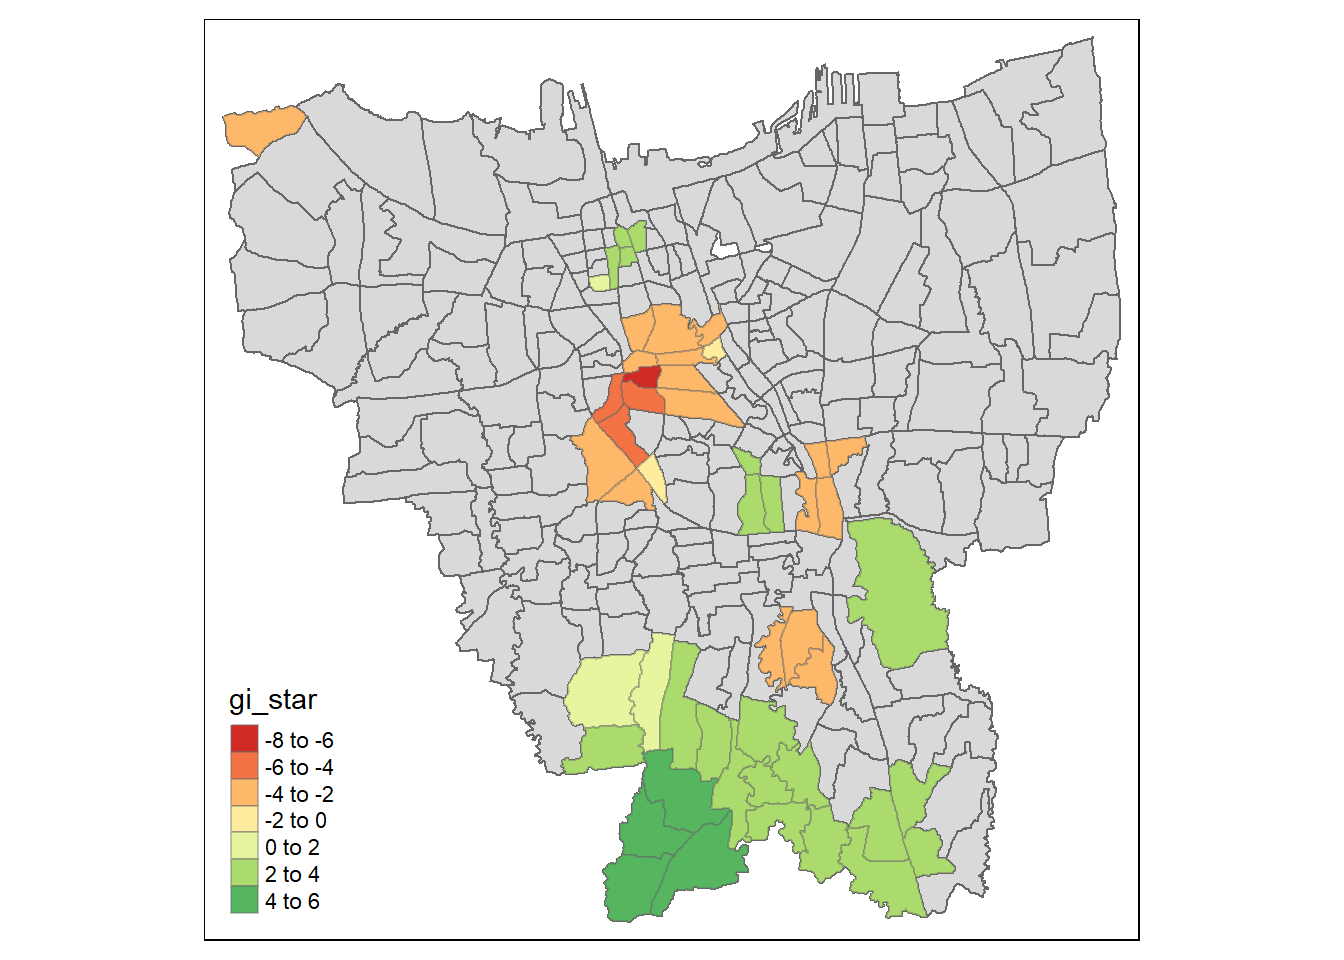
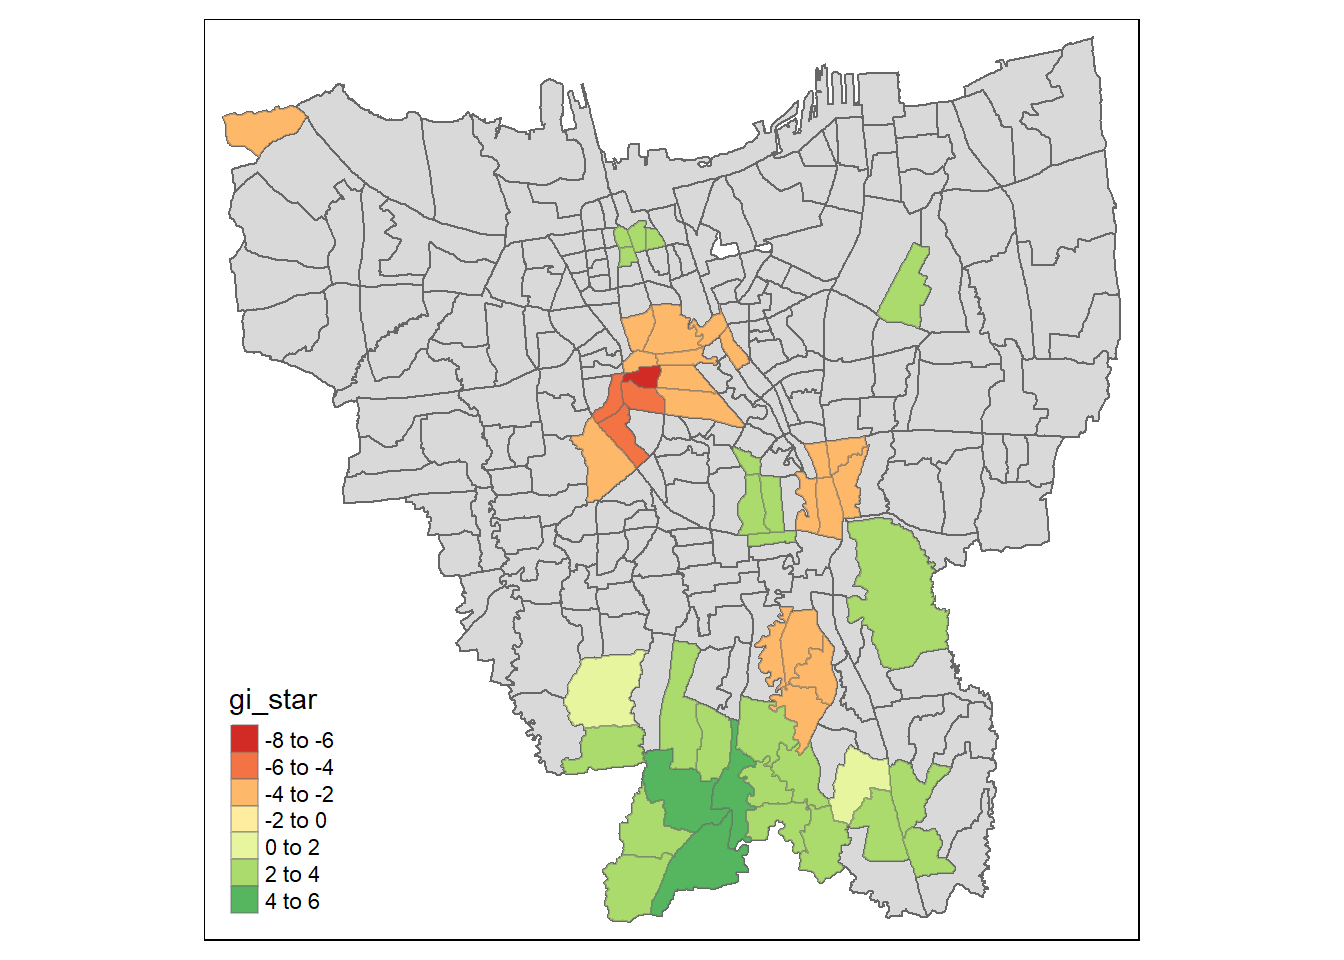
Cleaned up THx2

diff --git a/_site/Takehome_exercise/TakeHome2/Takehome_ex2.html b/_site/Takehome_exercise/TakeHome2/Takehome_ex2.html
@@ -6,7 +6,7 @@
 
 <meta name="viewport" content="width=device-width, initial-scale=1.0, user-scalable=yes">
 
-<meta name="dcterms.date" content="2023-02-28">
+<meta name="dcterms.date" content="2023-03-01">
 
 <title>IS415-GAA - Take home assignment 2</title>
 <style>
@@ -276,17 +276,19 @@ code span.wa { color: #60a0b0; font-weight: bold; font-style: italic; } /* Warni
   <ul class="collapse">
   <li><a href="#joining-data-by-sub-district" id="toc-joining-data-by-sub-district" class="nav-link" data-scroll-target="#joining-data-by-sub-district">Joining data by sub district</a></li>
   </ul></li>
-  <li><a href="#visualization" id="toc-visualization" class="nav-link" data-scroll-target="#visualization">Visualization</a>
+  <li><a href="#vaccination-rates-mapping" id="toc-vaccination-rates-mapping" class="nav-link" data-scroll-target="#vaccination-rates-mapping">Vaccination Rates mapping</a>
   <ul class="collapse">
   <li><a href="#dealing-with-mismatched-sub-district-names" id="toc-dealing-with-mismatched-sub-district-names" class="nav-link" data-scroll-target="#dealing-with-mismatched-sub-district-names">Dealing with mismatched sub-district names</a></li>
   <li><a href="#section" id="toc-section" class="nav-link" data-scroll-target="#section"></a></li>
   </ul></li>
-  <li><a href="#vaccination-rate-calculation" id="toc-vaccination-rate-calculation" class="nav-link" data-scroll-target="#vaccination-rate-calculation">Vaccination Rate calculation</a></li>
+  <li><a href="#vaccination-rate-calculation" id="toc-vaccination-rate-calculation" class="nav-link" data-scroll-target="#vaccination-rate-calculation">Vaccination Rate calculation</a>
+  <ul class="collapse">
   <li><a href="#plotting-monthly-vaccination-rate" id="toc-plotting-monthly-vaccination-rate" class="nav-link" data-scroll-target="#plotting-monthly-vaccination-rate">Plotting monthly vaccination rate</a>
   <ul class="collapse">
   <li><a href="#july-2021-to-31-october-2021" id="toc-july-2021-to-31-october-2021" class="nav-link" data-scroll-target="#july-2021-to-31-october-2021">31 July 2021 to 31 October 2021</a></li>
   <li><a href="#november-2021-to-27-february-2022" id="toc-november-2021-to-27-february-2022" class="nav-link" data-scroll-target="#november-2021-to-27-february-2022">30 November 2021 to 27 February 2022</a></li>
   <li><a href="#march-2022-to-30-june-2022" id="toc-march-2022-to-30-june-2022" class="nav-link" data-scroll-target="#march-2022-to-30-june-2022">31 March 2022 to 30 June 2022</a></li>
+  </ul></li>
   <li><a href="#observation" id="toc-observation" class="nav-link" data-scroll-target="#observation">Observation</a></li>
   </ul></li>
   <li><a href="#local-gi-analysis" id="toc-local-gi-analysis" class="nav-link" data-scroll-target="#local-gi-analysis">Local Gi* analysis</a>
@@ -303,11 +305,12 @@ code span.wa { color: #60a0b0; font-weight: bold; font-style: italic; } /* Warni
   <li><a href="#observation-1" id="toc-observation-1" class="nav-link" data-scroll-target="#observation-1">Observation</a></li>
   <li><a href="#mann-kendall-test" id="toc-mann-kendall-test" class="nav-link" data-scroll-target="#mann-kendall-test">Mann-Kendall test</a></li>
   <li><a href="#arrange-to-show-significant-emerging-hot-cold-spots" id="toc-arrange-to-show-significant-emerging-hot-cold-spots" class="nav-link" data-scroll-target="#arrange-to-show-significant-emerging-hot-cold-spots">Arrange to show significant emerging hot/ cold spots</a></li>
-  <li><a href="#performing-emerging-hotspot-analysis" id="toc-performing-emerging-hotspot-analysis" class="nav-link" data-scroll-target="#performing-emerging-hotspot-analysis">Performing emerging hotspot analysis</a>
+  <li><a href="#performing-emerging-hotspot-analysis" id="toc-performing-emerging-hotspot-analysis" class="nav-link" data-scroll-target="#performing-emerging-hotspot-analysis">Performing emerging hotspot analysis</a></li>
+  </ul></li>
+  <li><a href="#ehsa-emerging-hot-spot-analysis" id="toc-ehsa-emerging-hot-spot-analysis" class="nav-link" data-scroll-target="#ehsa-emerging-hot-spot-analysis">EHSA (Emerging Hot Spot Analysis)</a>
   <ul class="collapse">
   <li><a href="#visualizing-distribution-of-ehsa-classes" id="toc-visualizing-distribution-of-ehsa-classes" class="nav-link" data-scroll-target="#visualizing-distribution-of-ehsa-classes">Visualizing distribution of EHSA classes</a></li>
   <li><a href="#visualizing-ehsa" id="toc-visualizing-ehsa" class="nav-link" data-scroll-target="#visualizing-ehsa">Visualizing EHSA</a></li>
-  </ul></li>
   <li><a href="#observation-2" id="toc-observation-2" class="nav-link" data-scroll-target="#observation-2">Observation</a></li>
   </ul></li>
   </ul>
@@ -329,7 +332,7 @@ code span.wa { color: #60a0b0; font-weight: bold; font-style: italic; } /* Warni
     <div>
     <div class="quarto-title-meta-heading">Published</div>
     <div class="quarto-title-meta-contents">
-      <p class="date">February 28, 2023</p>
+      <p class="date">March 1, 2023</p>
     </div>
   </div>
   
@@ -488,13 +491,10 @@ Projected CRS: DGN95 / Indonesia TM-3 zone 54.1
 <span id="cb12-21"><a href="#cb12-21" aria-hidden="true" tabindex="-1"></a>}</span></code><button title="Copy to Clipboard" class="code-copy-button"><i class="bi"></i></button></pre></div>
 </div>
 <div class="cell">
-<div class="sourceCode cell-code" id="cb13"><pre class="sourceCode r code-with-copy"><code class="sourceCode r"><span id="cb13-1"><a href="#cb13-1" aria-hidden="true" tabindex="-1"></a><span class="co"># in the folder 'data/aspatial', find files with the extension '.xlsx' and add it to our fileslist </span></span>
-<span id="cb13-2"><a href="#cb13-2" aria-hidden="true" tabindex="-1"></a><span class="co"># the full.names=TRUE prepends the directory path to the file names, giving a relative file path - otherwise, only the file names (not the paths) would be returned </span></span>
-<span id="cb13-3"><a href="#cb13-3" aria-hidden="true" tabindex="-1"></a><span class="co"># reference: https://stat.ethz.ch/R-manual/R-devel/library/base/html/list.files.html</span></span>
-<span id="cb13-4"><a href="#cb13-4" aria-hidden="true" tabindex="-1"></a>fileslist <span class="ot">&lt;-</span><span class="fu">list.files</span>(<span class="at">path =</span> <span class="st">"data/aspatial"</span>, <span class="at">pattern =</span> <span class="st">"*.xlsx"</span>, <span class="at">full.names=</span><span class="cn">TRUE</span>)</span>
-<span id="cb13-5"><a href="#cb13-5" aria-hidden="true" tabindex="-1"></a></span>
-<span id="cb13-6"><a href="#cb13-6" aria-hidden="true" tabindex="-1"></a><span class="co"># afterwards, for every element in fileslist, apply aspatial_process function</span></span>
-<span id="cb13-7"><a href="#cb13-7" aria-hidden="true" tabindex="-1"></a>dflist <span class="ot">&lt;-</span> <span class="fu">lapply</span>(<span class="fu">seq_along</span>(fileslist), <span class="cf">function</span>(x) <span class="fu">aspatial_preprocess</span>(fileslist[x]))</span></code><button title="Copy to Clipboard" class="code-copy-button"><i class="bi"></i></button></pre></div>
+<div class="sourceCode cell-code" id="cb13"><pre class="sourceCode r code-with-copy"><code class="sourceCode r"><span id="cb13-1"><a href="#cb13-1" aria-hidden="true" tabindex="-1"></a>fileslist <span class="ot">&lt;-</span><span class="fu">list.files</span>(<span class="at">path =</span> <span class="st">"data/aspatial"</span>, <span class="at">pattern =</span> <span class="st">"*.xlsx"</span>, <span class="at">full.names=</span><span class="cn">TRUE</span>)</span>
+<span id="cb13-2"><a href="#cb13-2" aria-hidden="true" tabindex="-1"></a></span>
+<span id="cb13-3"><a href="#cb13-3" aria-hidden="true" tabindex="-1"></a></span>
+<span id="cb13-4"><a href="#cb13-4" aria-hidden="true" tabindex="-1"></a>dflist <span class="ot">&lt;-</span> <span class="fu">lapply</span>(<span class="fu">seq_along</span>(fileslist), <span class="cf">function</span>(x) <span class="fu">aspatial_preprocess</span>(fileslist[x]))</span></code><button title="Copy to Clipboard" class="code-copy-button"><i class="bi"></i></button></pre></div>
 </div>
 <div class="cell">
 <div class="sourceCode cell-code" id="cb14"><pre class="sourceCode r code-with-copy"><code class="sourceCode r"><span id="cb14-1"><a href="#cb14-1" aria-hidden="true" tabindex="-1"></a>vac_jkt <span class="ot">&lt;-</span> <span class="fu">ldply</span>(dflist, data.frame)</span></code><button title="Copy to Clipboard" class="code-copy-button"><i class="bi"></i></button></pre></div>
@@ -616,8 +616,8 @@ $ TOTAL.VAKSIN..DIBERIKAN &lt;dbl&gt; 36042, 44800, 42925, 15348, 42415, 33278, 
 </div>
 </section>
 </section>
-<section id="visualization" class="level1">
-<h1>Visualization</h1>
+<section id="vaccination-rates-mapping" class="level1">
+<h1>Vaccination Rates mapping</h1>
 <div class="cell">
 <div class="sourceCode cell-code" id="cb26"><pre class="sourceCode r code-with-copy"><code class="sourceCode r"><span id="cb26-1"><a href="#cb26-1" aria-hidden="true" tabindex="-1"></a>vac <span class="ot">=</span> <span class="fu">tm_shape</span>(jkt)<span class="sc">+</span></span>
 <span id="cb26-2"><a href="#cb26-2" aria-hidden="true" tabindex="-1"></a>  <span class="fu">tm_fill</span>(<span class="st">"Vaccinated"</span>) <span class="sc">+</span></span>
@@ -780,9 +780,8 @@ $ TOTAL.VAKSIN..DIBERIKAN &lt;dbl&gt; 36042, 44800, 42925, 15348, 42415, 33278, 
 <span id="cb36-3"><a href="#cb36-3" aria-hidden="true" tabindex="-1"></a>VR <span class="ot">&lt;-</span> VR<span class="sc">%&gt;%</span> <span class="fu">left_join</span>(jkt_sf, <span class="at">by=</span><span class="fu">c</span>(<span class="st">"Sub_District"</span><span class="ot">=</span><span class="st">"Sub_District"</span>))</span>
 <span id="cb36-4"><a href="#cb36-4" aria-hidden="true" tabindex="-1"></a>VR <span class="ot">&lt;-</span> <span class="fu">st_as_sf</span>(VR)</span></code><button title="Copy to Clipboard" class="code-copy-button"><i class="bi"></i></button></pre></div>
 </div>
-</section>
-<section id="plotting-monthly-vaccination-rate" class="level1">
-<h1>Plotting monthly vaccination rate</h1>
+<section id="plotting-monthly-vaccination-rate" class="level2">
+<h2 class="anchored" data-anchor-id="plotting-monthly-vaccination-rate">Plotting monthly vaccination rate</h2>
 <p>First we will plot the rate map for 31st of July 2021</p>
 <div class="cell">
 <div class="sourceCode cell-code" id="cb37"><pre class="sourceCode r code-with-copy"><code class="sourceCode r"><span id="cb37-1"><a href="#cb37-1" aria-hidden="true" tabindex="-1"></a><span class="fu">tmap_mode</span>(<span class="st">"plot"</span>)</span>
@@ -859,6 +858,7 @@ $ TOTAL.VAKSIN..DIBERIKAN &lt;dbl&gt; 36042, 44800, 42925, 15348, 42415, 33278, 
 <p><img src="Takehome_ex2_files/figure-html/unnamed-chunk-32-1.png" class="img-fluid" width="672"></p>
 </div>
 </div>
+</section>
 </section>
 <section id="observation" class="level2">
 <h2 class="anchored" data-anchor-id="observation">Observation</h2>
@@ -992,7 +992,7 @@ $ TOTAL.VAKSIN..DIBERIKAN &lt;dbl&gt; 36042, 44800, 42925, 15348, 42415, 33278, 
 <div class="cell">
 <div class="sourceCode cell-code" id="cb57"><pre class="sourceCode r code-with-copy"><code class="sourceCode r"><span id="cb57-1"><a href="#cb57-1" aria-hidden="true" tabindex="-1"></a>mkt <span class="ot">&lt;-</span> gi_stars <span class="sc">%&gt;%</span> </span>
 <span id="cb57-2"><a href="#cb57-2" aria-hidden="true" tabindex="-1"></a>  <span class="fu">ungroup</span>() <span class="sc">%&gt;%</span> </span>
-<span id="cb57-3"><a href="#cb57-3" aria-hidden="true" tabindex="-1"></a>  <span class="fu">filter</span>(Sub_District <span class="sc">==</span> <span class="st">"ANCOL"</span>) <span class="sc">|&gt;</span> </span>
+<span id="cb57-3"><a href="#cb57-3" aria-hidden="true" tabindex="-1"></a>  <span class="fu">filter</span>(Sub_District <span class="sc">==</span> <span class="st">"GLODOK"</span>) <span class="sc">|&gt;</span> </span>
 <span id="cb57-4"><a href="#cb57-4" aria-hidden="true" tabindex="-1"></a>  <span class="fu">select</span>(Sub_District, Date, gi_star)</span></code><button title="Copy to Clipboard" class="code-copy-button"><i class="bi"></i></button></pre></div>
 </div>
 <p>Plotting the result using ggplot</p>
@@ -1016,8 +1016,8 @@ $ TOTAL.VAKSIN..DIBERIKAN &lt;dbl&gt; 36042, 44800, 42925, 15348, 42415, 33278, 
 <span id="cb59-6"><a href="#cb59-6" aria-hidden="true" tabindex="-1"></a></span>
 <span id="cb59-7"><a href="#cb59-7" aria-hidden="true" tabindex="-1"></a><span class="fu">ggplotly</span>(p)</span></code><button title="Copy to Clipboard" class="code-copy-button"><i class="bi"></i></button></pre></div>
 <div class="cell-output-display">
-<div class="plotly html-widget html-fill-item-overflow-hidden html-fill-item" id="htmlwidget-bc212714d425f71495ef" style="width:100%;height:464px;"></div>
-<script type="application/json" data-for="htmlwidget-bc212714d425f71495ef">{"x":{"data":[{"x":[18839,18870,18900,18931,18961,18992,19023,19050,19082,19112,19143,19173],"y":[2.07776786463371,1.95879817160444,0.387510888924714,-0.821987235152629,-1.11898252077143,-0.974611838453084,-0.547951745524385,-0.471557221095882,-0.543037534694721,-0.398530978425604,-0.7178688928673,-0.606673447114118],"text":["Date: 2021-07-31<br />gi_star:  2.0777679","Date: 2021-08-31<br />gi_star:  1.9587982","Date: 2021-09-30<br />gi_star:  0.3875109","Date: 2021-10-31<br />gi_star: -0.8219872","Date: 2021-11-30<br />gi_star: -1.1189825","Date: 2021-12-31<br />gi_star: -0.9746118","Date: 2022-01-31<br />gi_star: -0.5479517","Date: 2022-02-27<br />gi_star: -0.4715572","Date: 2022-03-31<br />gi_star: -0.5430375","Date: 2022-04-30<br />gi_star: -0.3985310","Date: 2022-05-31<br />gi_star: -0.7178689","Date: 2022-06-30<br />gi_star: -0.6066734"],"type":"scatter","mode":"lines","line":{"width":1.88976377952756,"color":"rgba(0,0,0,1)","dash":"solid"},"hoveron":"points","showlegend":false,"xaxis":"x","yaxis":"y","hoverinfo":"text","frame":null}],"layout":{"margin":{"t":26.2283105022831,"r":7.30593607305936,"b":40.1826484018265,"l":37.2602739726027},"plot_bgcolor":"rgba(255,255,255,1)","paper_bgcolor":"rgba(255,255,255,1)","font":{"color":"rgba(0,0,0,1)","family":"","size":14.6118721461187},"xaxis":{"domain":[0,1],"automargin":true,"type":"linear","autorange":false,"range":[18822.3,19189.7],"tickmode":"array","ticktext":["Okt 2021","Jan 2022","Apr 2022","Jul 2022"],"tickvals":[18901,18993,19083,19174],"categoryorder":"array","categoryarray":["Okt 2021","Jan 2022","Apr 2022","Jul 2022"],"nticks":null,"ticks":"outside","tickcolor":"rgba(179,179,179,1)","ticklen":3.65296803652968,"tickwidth":0.33208800332088,"showticklabels":true,"tickfont":{"color":"rgba(77,77,77,1)","family":"","size":11.689497716895},"tickangle":-0,"showline":false,"linecolor":null,"linewidth":0,"showgrid":true,"gridcolor":"rgba(222,222,222,1)","gridwidth":0.33208800332088,"zeroline":false,"anchor":"y","title":{"text":"Date","font":{"color":"rgba(0,0,0,1)","family":"","size":14.6118721461187}},"hoverformat":".2f"},"yaxis":{"domain":[0,1],"automargin":true,"type":"linear","autorange":false,"range":[-1.27882004004168,2.23760538390396],"tickmode":"array","ticktext":["-1","0","1","2"],"tickvals":[-1,0,1,2],"categoryorder":"array","categoryarray":["-1","0","1","2"],"nticks":null,"ticks":"outside","tickcolor":"rgba(179,179,179,1)","ticklen":3.65296803652968,"tickwidth":0.33208800332088,"showticklabels":true,"tickfont":{"color":"rgba(77,77,77,1)","family":"","size":11.689497716895},"tickangle":-0,"showline":false,"linecolor":null,"linewidth":0,"showgrid":true,"gridcolor":"rgba(222,222,222,1)","gridwidth":0.33208800332088,"zeroline":false,"anchor":"x","title":{"text":"gi_star","font":{"color":"rgba(0,0,0,1)","family":"","size":14.6118721461187}},"hoverformat":".2f"},"shapes":[{"type":"rect","fillcolor":"transparent","line":{"color":"rgba(179,179,179,1)","width":0.66417600664176,"linetype":"solid"},"yref":"paper","xref":"paper","x0":0,"x1":1,"y0":0,"y1":1}],"showlegend":false,"legend":{"bgcolor":"rgba(255,255,255,1)","bordercolor":"transparent","borderwidth":1.88976377952756,"font":{"color":"rgba(0,0,0,1)","family":"","size":11.689497716895}},"hovermode":"closest","barmode":"relative"},"config":{"doubleClick":"reset","modeBarButtonsToAdd":["hoverclosest","hovercompare"],"showSendToCloud":false},"source":"A","attrs":{"a78403d661c":{"x":{},"y":{},"type":"scatter"}},"cur_data":"a78403d661c","visdat":{"a78403d661c":["function (y) ","x"]},"highlight":{"on":"plotly_click","persistent":false,"dynamic":false,"selectize":false,"opacityDim":0.2,"selected":{"opacity":1},"debounce":0},"shinyEvents":["plotly_hover","plotly_click","plotly_selected","plotly_relayout","plotly_brushed","plotly_brushing","plotly_clickannotation","plotly_doubleclick","plotly_deselect","plotly_afterplot","plotly_sunburstclick"],"base_url":"https://plot.ly"},"evals":[],"jsHooks":[]}</script>
+<div class="plotly html-widget html-fill-item-overflow-hidden html-fill-item" id="htmlwidget-92586e07974859f6662b" style="width:100%;height:464px;"></div>
+<script type="application/json" data-for="htmlwidget-92586e07974859f6662b">{"x":{"data":[{"x":[18839,18870,18900,18931,18961,18992,19023,19050,19082,19112,19143,19173],"y":[3.50111170297446,4.31941524162891,3.65856497786875,3.94694017481021,2.87253965177964,3.23447227700256,2.88878766519807,2.60658983170689,3.00826269457234,3.208462170278,2.78734435437842,3.06626593873415],"text":["Date: 2021-07-31<br />gi_star: 3.501112","Date: 2021-08-31<br />gi_star: 4.319415","Date: 2021-09-30<br />gi_star: 3.658565","Date: 2021-10-31<br />gi_star: 3.946940","Date: 2021-11-30<br />gi_star: 2.872540","Date: 2021-12-31<br />gi_star: 3.234472","Date: 2022-01-31<br />gi_star: 2.888788","Date: 2022-02-27<br />gi_star: 2.606590","Date: 2022-03-31<br />gi_star: 3.008263","Date: 2022-04-30<br />gi_star: 3.208462","Date: 2022-05-31<br />gi_star: 2.787344","Date: 2022-06-30<br />gi_star: 3.066266"],"type":"scatter","mode":"lines","line":{"width":1.88976377952756,"color":"rgba(0,0,0,1)","dash":"solid"},"hoveron":"points","showlegend":false,"xaxis":"x","yaxis":"y","hoverinfo":"text","frame":null}],"layout":{"margin":{"t":26.2283105022831,"r":7.30593607305936,"b":40.1826484018265,"l":43.1050228310502},"plot_bgcolor":"rgba(255,255,255,1)","paper_bgcolor":"rgba(255,255,255,1)","font":{"color":"rgba(0,0,0,1)","family":"","size":14.6118721461187},"xaxis":{"domain":[0,1],"automargin":true,"type":"linear","autorange":false,"range":[18822.3,19189.7],"tickmode":"array","ticktext":["Okt 2021","Jan 2022","Apr 2022","Jul 2022"],"tickvals":[18901,18993,19083,19174],"categoryorder":"array","categoryarray":["Okt 2021","Jan 2022","Apr 2022","Jul 2022"],"nticks":null,"ticks":"outside","tickcolor":"rgba(179,179,179,1)","ticklen":3.65296803652968,"tickwidth":0.33208800332088,"showticklabels":true,"tickfont":{"color":"rgba(77,77,77,1)","family":"","size":11.689497716895},"tickangle":-0,"showline":false,"linecolor":null,"linewidth":0,"showgrid":true,"gridcolor":"rgba(222,222,222,1)","gridwidth":0.33208800332088,"zeroline":false,"anchor":"y","title":{"text":"Date","font":{"color":"rgba(0,0,0,1)","family":"","size":14.6118721461187}},"hoverformat":".2f"},"yaxis":{"domain":[0,1],"automargin":true,"type":"linear","autorange":false,"range":[2.52094856121079,4.40505651212501],"tickmode":"array","ticktext":["3.0","3.5","4.0"],"tickvals":[3,3.5,4],"categoryorder":"array","categoryarray":["3.0","3.5","4.0"],"nticks":null,"ticks":"outside","tickcolor":"rgba(179,179,179,1)","ticklen":3.65296803652968,"tickwidth":0.33208800332088,"showticklabels":true,"tickfont":{"color":"rgba(77,77,77,1)","family":"","size":11.689497716895},"tickangle":-0,"showline":false,"linecolor":null,"linewidth":0,"showgrid":true,"gridcolor":"rgba(222,222,222,1)","gridwidth":0.33208800332088,"zeroline":false,"anchor":"x","title":{"text":"gi_star","font":{"color":"rgba(0,0,0,1)","family":"","size":14.6118721461187}},"hoverformat":".2f"},"shapes":[{"type":"rect","fillcolor":"transparent","line":{"color":"rgba(179,179,179,1)","width":0.66417600664176,"linetype":"solid"},"yref":"paper","xref":"paper","x0":0,"x1":1,"y0":0,"y1":1}],"showlegend":false,"legend":{"bgcolor":"rgba(255,255,255,1)","bordercolor":"transparent","borderwidth":1.88976377952756,"font":{"color":"rgba(0,0,0,1)","family":"","size":11.689497716895}},"hovermode":"closest","barmode":"relative"},"config":{"doubleClick":"reset","modeBarButtonsToAdd":["hoverclosest","hovercompare"],"showSendToCloud":false},"source":"A","attrs":{"2550298e2cb8":{"x":{},"y":{},"type":"scatter"}},"cur_data":"2550298e2cb8","visdat":{"2550298e2cb8":["function (y) ","x"]},"highlight":{"on":"plotly_click","persistent":false,"dynamic":false,"selectize":false,"opacityDim":0.2,"selected":{"opacity":1},"debounce":0},"shinyEvents":["plotly_hover","plotly_click","plotly_selected","plotly_relayout","plotly_brushed","plotly_brushing","plotly_clickannotation","plotly_doubleclick","plotly_deselect","plotly_afterplot","plotly_sunburstclick"],"base_url":"https://plot.ly"},"evals":[],"jsHooks":[]}</script>
 </div>
 </div>
 <div class="cell">
@@ -1028,9 +1028,9 @@ $ TOTAL.VAKSIN..DIBERIKAN &lt;dbl&gt; 36042, 44800, 42925, 15348, 42415, 33278, 
 <span id="cb60-5"><a href="#cb60-5" aria-hidden="true" tabindex="-1"></a>  tidyr<span class="sc">::</span><span class="fu">unnest_wider</span>(mk)</span></code><button title="Copy to Clipboard" class="code-copy-button"><i class="bi"></i></button></pre></div>
 <div class="cell-output cell-output-stdout">
 <pre><code># A tibble: 1 x 5
-     tau    sl     S     D  varS
-   &lt;dbl&gt; &lt;dbl&gt; &lt;dbl&gt; &lt;dbl&gt; &lt;dbl&gt;
-1 -0.242 0.304   -16  66.0  213.</code></pre>
+     tau     sl     S     D  varS
+   &lt;dbl&gt;  &lt;dbl&gt; &lt;dbl&gt; &lt;dbl&gt; &lt;dbl&gt;
+1 -0.424 0.0641   -28  66.0  213.</code></pre>
 </div>
 </div>
 <p>in the above table, sl is the p value. There is a major downward trend which stabilizes after a point</p>
@@ -1061,6 +1061,10 @@ $ TOTAL.VAKSIN..DIBERIKAN &lt;dbl&gt; 36042, 44800, 42925, 15348, 42415, 33278, 
 <span id="cb64-5"><a href="#cb64-5" aria-hidden="true" tabindex="-1"></a>  <span class="at">nsim =</span> <span class="dv">99</span></span>
 <span id="cb64-6"><a href="#cb64-6" aria-hidden="true" tabindex="-1"></a>)</span></code><button title="Copy to Clipboard" class="code-copy-button"><i class="bi"></i></button></pre></div>
 </div>
+</section>
+</section>
+<section id="ehsa-emerging-hot-spot-analysis" class="level1">
+<h1>EHSA (Emerging Hot Spot Analysis)</h1>
 <section id="visualizing-distribution-of-ehsa-classes" class="level3">
 <h3 class="anchored" data-anchor-id="visualizing-distribution-of-ehsa-classes">Visualizing distribution of EHSA classes</h3>
 <div class="cell">
@@ -1091,7 +1095,6 @@ $ TOTAL.VAKSIN..DIBERIKAN &lt;dbl&gt; 36042, 44800, 42925, 15348, 42415, 33278, 
 <p><img src="Takehome_ex2_files/figure-html/unnamed-chunk-55-1.png" class="img-fluid" width="672"></p>
 </div>
 </div>
-</section>
 </section>
 <section id="observation-2" class="level2">
 <h2 class="anchored" data-anchor-id="observation-2">Observation</h2>
